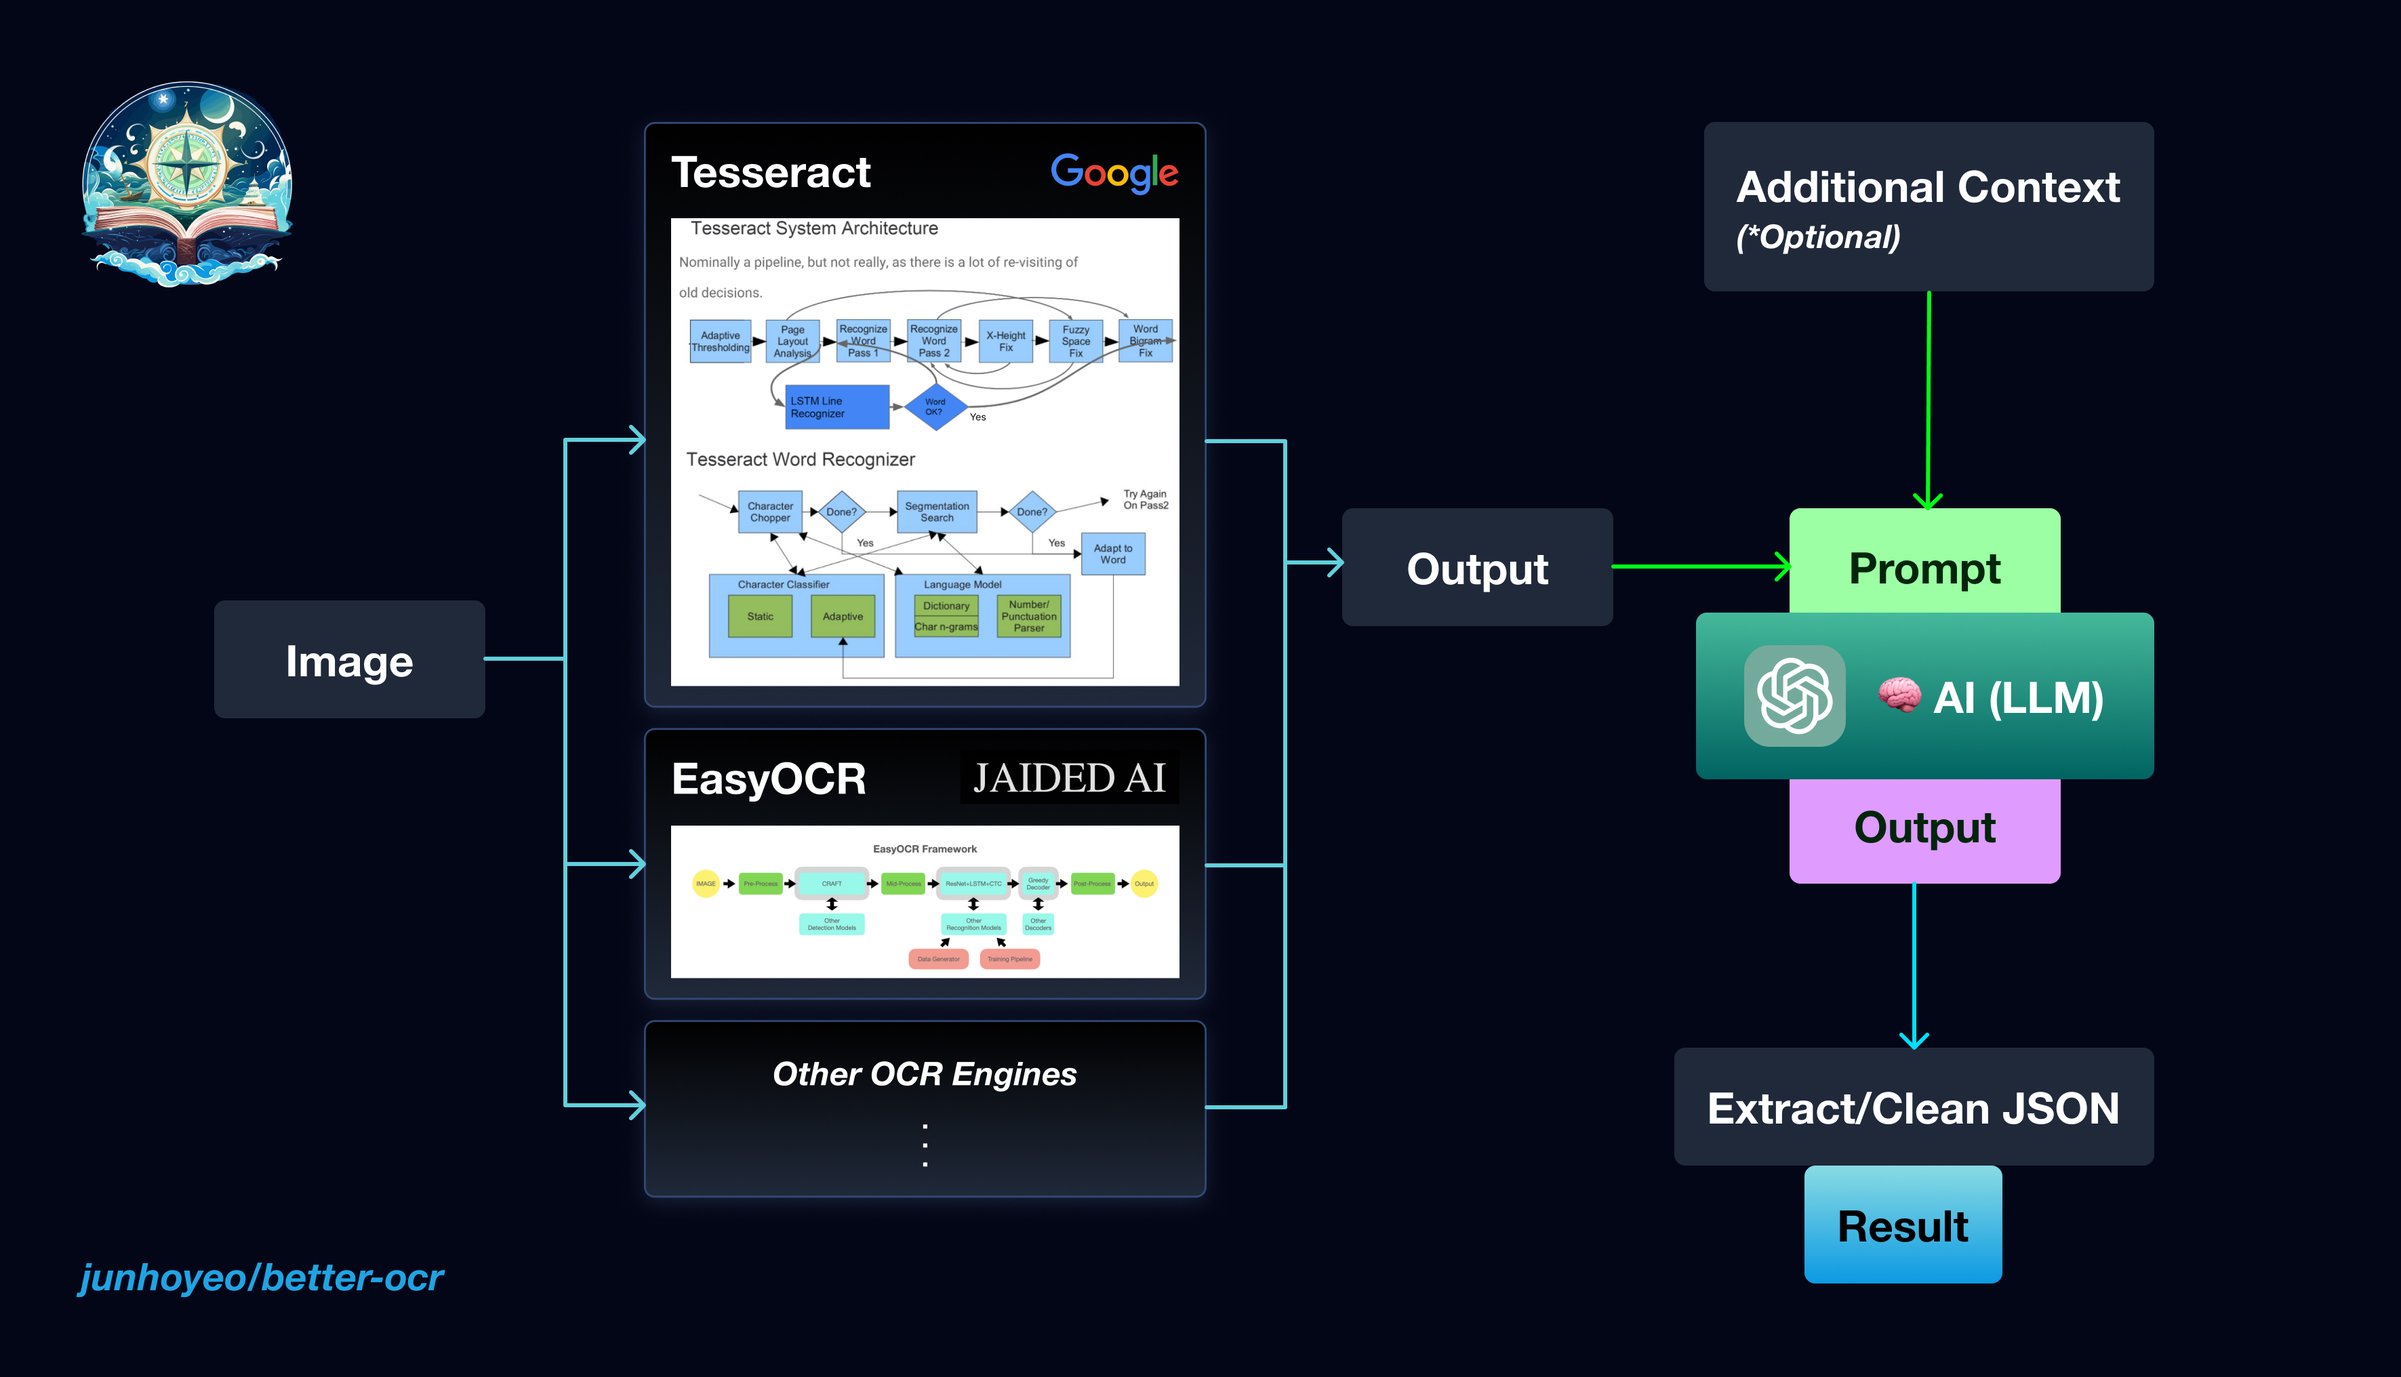
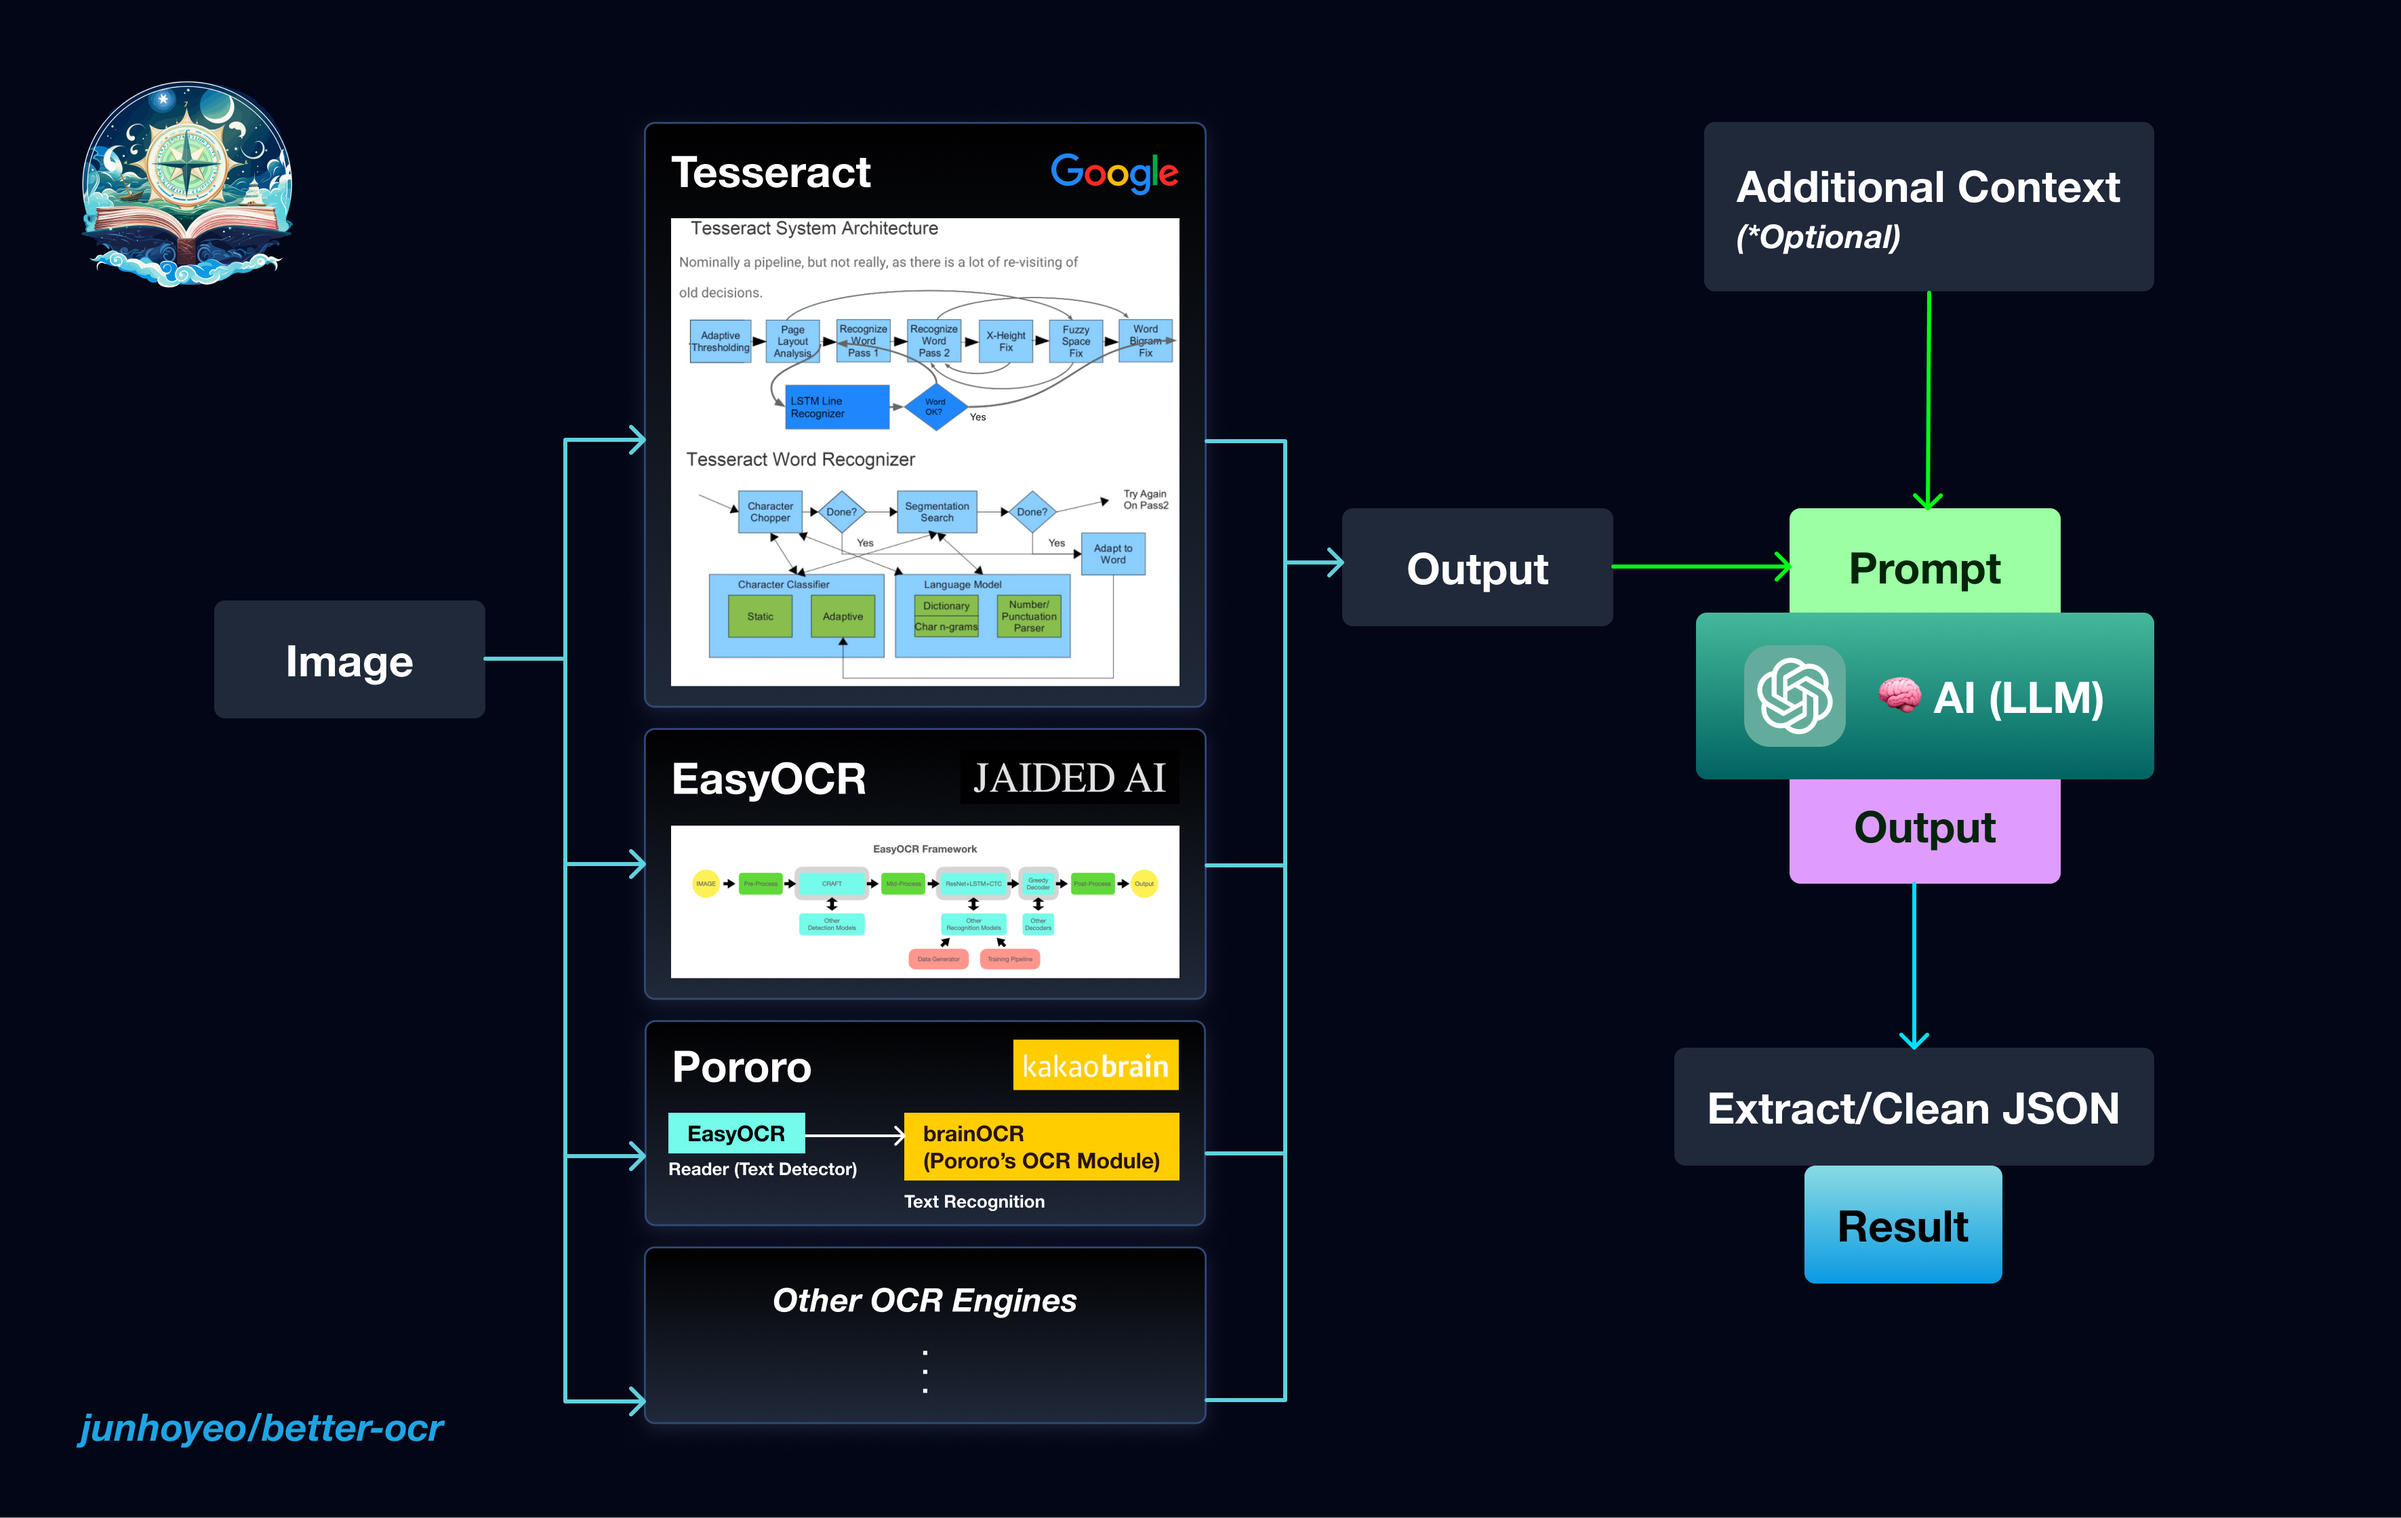
Update README.md

diff --git a/README.md b/README.md
@@ -17,7 +17,9 @@ OCR _still_ sucks! ... Especially when you're from the _other side_ of the world
 **BetterOCR** combines results from multiple OCR engines with an LLM to correct & reconstruct the output.
 
 - **🔍 OCR Engines**: Currently supports [EasyOCR](https://github.com/JaidedAI/EasyOCR) (JaidedAI), [Tesseract](https://github.com/tesseract-ocr/tesseract) (Google), and [Pororo](https://github.com/kakaobrain/pororo) (KakaoBrain).
-  - For Pororo, we're using the code from https://github.com/black7375/korean_ocr_using_pororo (Pre-processing ➡ _Text detection_ with EasyOCR ➡ _Text recognition_ with Pororo). Pororo is used only if the language options (lang) specified include either English (en) 🇺🇸 or Korean (ko) 🇰🇷.
+  - For Pororo, we're using the code from https://github.com/black7375/korean_ocr_using_pororo <br />
+    (Pre-processing ➡ _Text detection_ with EasyOCR ➡ _Text recognition_ with Pororo).
+  - Pororo is used only if the language options (`lang`) specified include either 🇺🇸 English (`en`) or 🇰🇷 Korean (`ko`).
 - **🧠 LLM**: Supports [Chat models](https://github.com/openai/openai-python#chat-completions) from OpenAI.
 - **📒 Custom Context**: Allows users to provide an optional context to use specific keywords such as proper nouns and product names. This assists in spelling correction and noise identification, ensuring accuracy even with rare or unconventional words.
 
@@ -29,7 +31,7 @@ Coming Soon: ~~box detection~~ ✅, improved interface, async support, and more.
 > This package is under rapid development 🛠
 
 <a href="https://github.com/junhoyeo">
-  <img src="https://github.com/junhoyeo/BetterOCR/raw/main/.github/images/arch.jpg" width="100%" />
+  <img src="https://github.com/junhoyeo/BetterOCR/raw/main/.github/images/arch.jpg?v=2" width="100%" />
 </a>
 
 > Architecture
